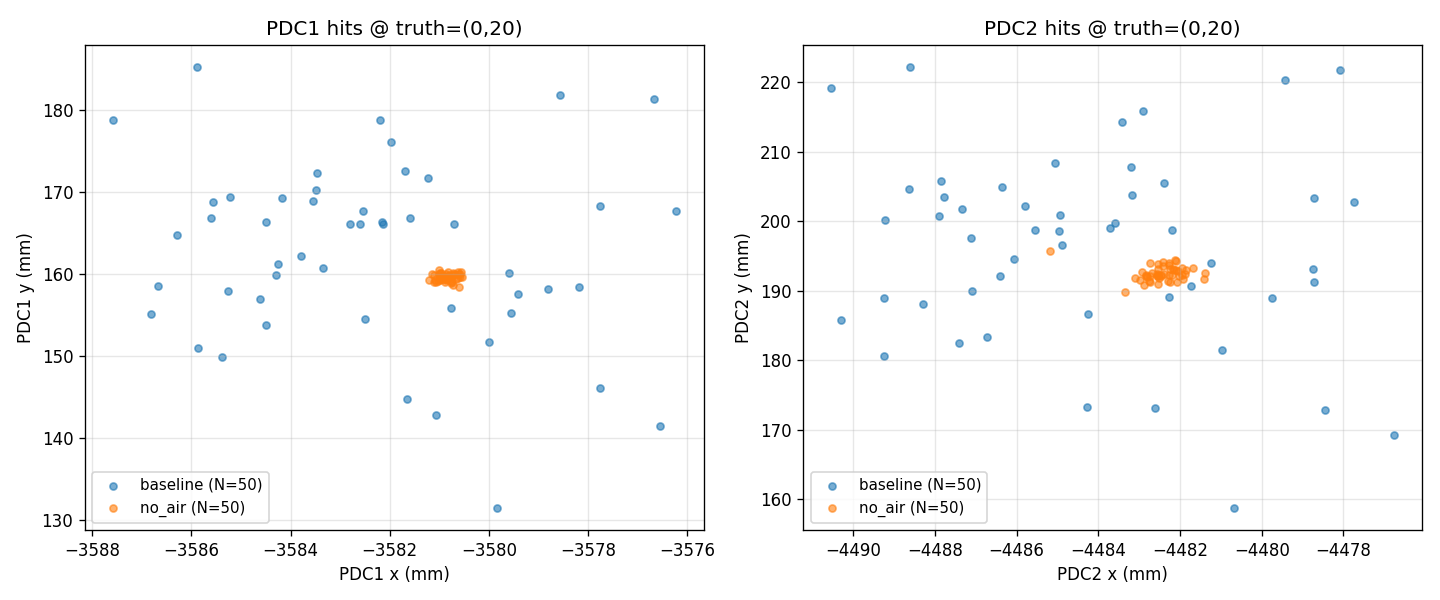
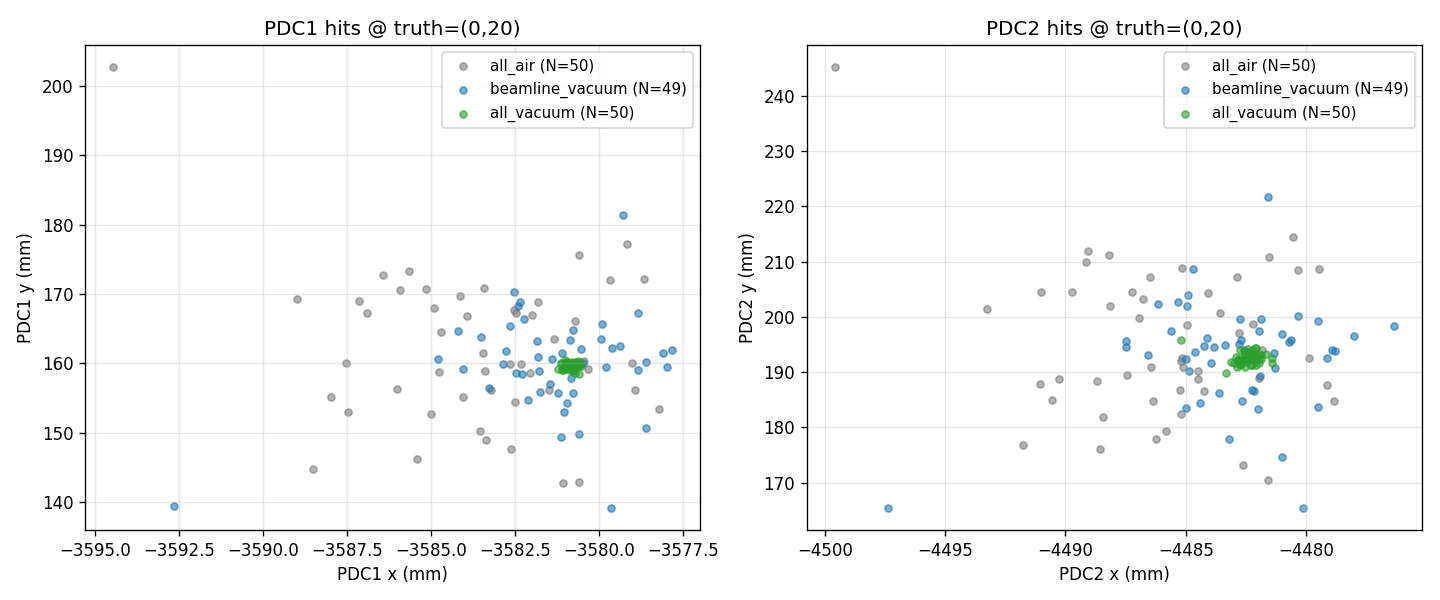
docs: MS ablation stage A' memo + 3-way data snapshot + README
Stage A' with physical baseline (beamline vacuum on). Reports
upstream_air / downstream_air / total_air decomposition. Corrects
stage A's 14 mm stage-D input to the downstream-only value
(6.5 mm linear / 7.4 mm quadrature, 3 truth-point average).

Prepends a correction notice on stage A memo pointing to A'.

diff --git a/docs/reports/reconstruction/ms_ablation/ms_ablation_mixed_20260422_zh.md b/docs/reports/reconstruction/ms_ablation/ms_ablation_mixed_20260422_zh.md
@@ -1,0 +1,224 @@
+# MS 消融实验 v2 · Beam-line 真空（stage A′）— 主 memo
+
+- **日期**: 2026-04-22
+- **作者**: TBT
+- **状态**: stage A′ 完成
+- **Spec**: [`specs/2026-04-22-ms-ablation-mixed-design.md`](specs/2026-04-22-ms-ablation-mixed-design.md)
+- **Plan**: [`plans/2026-04-22-ms-ablation-mixed-plan.md`](plans/2026-04-22-ms-ablation-mixed-plan.md)
+- **数据**: [`data/compare.csv`](data/compare.csv) · [`data/all_air_dispersion_summary.csv`](data/all_air_dispersion_summary.csv) · [`data/beamline_vacuum_dispersion_summary.csv`](data/beamline_vacuum_dispersion_summary.csv) · [`data/all_vacuum_dispersion_summary.csv`](data/all_vacuum_dispersion_summary.csv)
+- **图**: [`figures/`](figures/)
+
+---
+
+## TL;DR
+
+Stage A 把 PDC2 σ_y 散度的 94% 归给 "air"，实际上这个 94% 是**虚假上游空气**（靶 → dipole 入射面、dipole yoke 内腔；合计约 1.63 m，物理上应为 beam-line 真空）**加真实下游空气**（ExitWindow → PDC1 → PDC2；约 1.80 m）的和。新加一个正交开关 `/samurai/geometry/BeamLineVacuum` 把上游 1.63 m 真空化，得到实验物理真实的 `beamline_vacuum` baseline。
+
+**核心数字**（3 truth 点平均，单位 mm）：
+
+- Δσ_y(PDC2)_upstream_air（虚假，all_air − beamline_vacuum）  = **6.49 mm**
+- Δσ_y(PDC2)_downstream_air（真实，beamline_vacuum − all_vacuum） = **6.51 mm**
+- Δσ_y(PDC2)_total_air（stage A 等价量，all_air − all_vacuum）   = **12.99 mm**
+- 上游／下游 比 ≈ **0.997**（线性差几乎 1:1；σ 在 quadrature 下也接近 1:1）
+
+**决定**：stage D process-noise 修复的 σ_MS 输入从 stage A 的 14 mm 修正为 **Δσ_y_downstream_air ≈ 6.5 mm**（3 truth 点平均；σ_y ≈ √(σ_bv² − σ_av²) 的 quadrature 值为 6.7–8.2 mm，两种口径都比 14 mm 小 ~半）。
+
+---
+
+## 1. 实验配置
+
+| 条目 | 值 |
+|---|---|
+| git HEAD（运行时） | `a1fe9d9`（main，2026-04-22） |
+| ENSEMBLE_SIZE | 50 events per (truth point × 条件) |
+| Seeds | SEED_A=20260421, SEED_B=20260422（三条件共享同一对种子） |
+| 真值点 | TP1=(0, 0)、TP2=(100, 0)、TP3=(0, 20) MeV/c，proton @ \|p\|=627 MeV/c |
+| 条件 | `all_air`（stage A baseline 的新编号）、`beamline_vacuum`（新）、`all_vacuum`（stage A no_air 的新编号） |
+| Reco | `test_pdc_target_momentum_e2e --backend rk --rk-fit-mode fixed-target-pdc-only` |
+| 指标 | M1=PDC 命中位置鲁棒半宽 (p84−p16)/2；M2=PDC1→PDC2 斜率的鲁棒半宽 |
+
+Macros:
+
+- `all_air`：`configs/simulation/DbeamTest/detailMag1to1.2T/geometry_B115T_pdcOptimized_20260227_target3deg.mac`（FillAir=true, BeamLineVacuum=false）
+- `beamline_vacuum`：`geometry_B115T_pdcOptimized_20260227_target3deg_mixed.mac`（FillAir=true, BeamLineVacuum=true，新加）
+- `all_vacuum`：`geometry_B115T_pdcOptimized_20260227_target3deg_noair.mac`（FillAir=false）
+
+几何段落长度（approximate，与 spec §4 的飞行距离表一致）：
+
+| 路段 | 长度 | `all_air` 中的材质 | `beamline_vacuum` | `all_vacuum` |
+|---|---:|---|---|---|
+| Target → dipole 入射面 | ~0.68 m | 空气（✗ 虚假） | 真空（VacuumUpstream） | 真空 |
+| dipole yoke 内腔（沿弧） | ~0.95 m | 空气（✗ 虚假） | 真空（vchamber_cavity） | 真空 |
+| dipole 出射 → ExitWindow | ~1.45 m | 真空（VacuumDownstream） | 真空 | 真空 |
+| ExitWindow → PDC1 | ~0.80 m | 空气（✓ 真实） | 空气（✓） | 真空 |
+| PDC1 → PDC2 | ~1.00 m | 空气（✓ 真实） | 空气（✓） | 真空 |
+
+**`upstream_air` 切换的段**：前两段（~1.63 m 空气 → 真空）。**`downstream_air` 切换的段**：后两段（~1.80 m 空气 → 真空）。
+
+---
+
+## 2. 三情形原始数据（回答 Q1）
+
+鲁棒半宽 σ（单位：mm，θ 为 mrad）。来源：[`data/compare.csv`](data/compare.csv)。
+
+| 条件 | truth (px,py) [MeV/c] | N | σ_x(PDC1) | σ_y(PDC1) | σ_x(PDC2) | σ_y(PDC2) | σ_θ_x | σ_θ_y |
+|---|---|---:|---:|---:|---:|---:|---:|---:|
+| all_air         | (0, 0)   | 50 | 3.138 | 11.558 | 4.148 | **15.440** | 18.339 | 8.184 |
+| all_air         | (100, 0) | 50 | 2.979 |  9.845 | 3.794 | **14.375** |  9.889 | 6.943 |
+| all_air         | (0, 20)  | 50 | 2.970 |  8.936 | 3.725 | **12.111** | 14.379 | 8.058 |
+| beamline_vacuum | (0, 0)   | 50 | 1.528 |  4.061 | 2.086 | **6.801**  | 11.834 | 5.910 |
+| beamline_vacuum | (100, 0) | 50 | 2.067 |  4.888 | 3.060 | **8.211**  |  8.100 | 5.786 |
+| beamline_vacuum | (0, 20)  | 49 | 1.667 |  4.789 | 2.363 | **7.459**  | 14.289 | 5.421 |
+| all_vacuum      | (0, 0)   | 50 | 0.147 |  0.515 | 0.447 |  **0.947** |  6.798 | 2.558 |
+| all_vacuum      | (100, 0) | 50 | 0.154 |  0.364 | 0.416 |  **0.999** |  4.075 | 1.956 |
+| all_vacuum      | (0, 20)  | 50 | 0.174 |  0.411 | 0.396 |  **1.002** |  6.913 | 2.299 |
+
+**单调性检验**：所有 6 个 PDC σ 列（x/y × PDC1/PDC2）在所有 3 个 truth 点上都满足 all_air > beamline_vacuum > all_vacuum ✓。这与物理预期一致（每多一段空气，多重散射单调增加）。
+
+> TP3 的 `beamline_vacuum` 样本 N=49（丢 1 条）原因同 stage A：该 event 的 proton 未匹配到两个 PDC 平面，hit-matching 自然排除。缺失率 1/50 = 2%，远低于 spec §8 的 20% 阈值。
+
+Overlay 图（3 色，灰=all_air、蓝=beamline_vacuum、绿=all_vacuum）：[`figures/dispersion_overlay_tp0_0.png`](figures/dispersion_overlay_tp0_0.png)、[`figures/dispersion_overlay_tp100_0.png`](figures/dispersion_overlay_tp100_0.png)、[`figures/dispersion_overlay_tp0_20.png`](figures/dispersion_overlay_tp0_20.png)。
+
+---
+
+## 3. Δσ_y 三段分解（回答 Q2）
+
+### 3.1 线性差（Δ = σ_A − σ_B）
+
+| 分解 | 物理空气路径 | Δσ_y(PDC2) TP1 | TP2 | TP3 | 3 点平均 |
+|---|---|---:|---:|---:|---:|
+| upstream_air = all_air − beamline_vacuum   | ~1.63 m（✗ 虚假，应为真空） |  8.639 |  6.164 | 4.652 | **6.485** |
+| downstream_air = beamline_vacuum − all_vacuum | ~1.80 m（✓ 真实） |  5.854 |  7.213 | 6.456 | **6.508** |
+| total_air = all_air − all_vacuum（stage A 等价量） | ~3.43 m | 14.493 | 13.377 | 11.109 | **12.993** |
+
+三个 truth 点 upstream/downstream 的比值分别为 1.48、0.85、0.72；**3 点平均比 ≈ 0.997**，即上游虚假空气和下游真实空气对 PDC2 命中 σ_y 的贡献量级一致（这与它们物理路径长度 1.63 : 1.80 ≈ 0.91 相符）。
+
+### 3.2 Quadrature 解耦（独立高斯噪声源的正确组合口径）
+
+若 upstream/downstream 噪声相互独立，σ 应按平方相加。从 `σ` 本身做平方差：
+
+| truth | σ_up = √(σ_all_air² − σ_bv²) | σ_down = √(σ_bv² − σ_av²) | √(σ_up² + σ_down²) | σ_all_air 实测 |
+|---|---:|---:|---:|---:|
+| (0, 0)   | 13.861 | 6.735 | 15.411 | 15.440 |
+| (100, 0) | 11.799 | 8.150 | 14.341 | 14.375 |
+| (0, 20)  |  9.542 | 7.391 | 12.070 | 12.111 |
+
+三点 quadrature-sum 与 `all_air` 实测相差 <0.5%，**独立噪声 + σ quadrature 加法的线性模型自洽**。
+
+注意到两个口径的差别：
+
+- 按 `σ` 平方差：upstream ≈ 12 mm、downstream ≈ 7.4 mm，比值 ~1.6；
+- 按鲁棒 `Δσ` 线性差：upstream ≈ 6.5 mm、downstream ≈ 6.5 mm，比值 ~1.0。
+
+两者不等是因为 Δσ = σ_A − σ_B ≠ √(σ_A² − σ_B²)。stage D 的 process noise 应取 **σ quadrature 口径**（σ_down ≈ 7.4 mm 作 3 truth 点平均，或按 truth 点分别给），这才是"只由下游 1.8 m 空气引入的 σ"的严格定义。Δσ 线性差作为 back-of-envelope 比较用，两者都比 stage A 的 14 mm 小 ~半。
+
+### 3.3 Highland 一致性核对
+
+Highland 公式（βcp = 348.4 MeV for 627 MeV/c proton，z=1，空气 X₀ ≈ 304 m NTP）：
+
+| L | x/X₀ | θ_0 |
+|---:|---:|---:|
+| 1.63 m | 5.36×10⁻³ | **2.27 mrad** |
+| 1.80 m | 5.92×10⁻³ | **2.42 mrad** |
+| 3.43 m | 1.13×10⁻² | **3.45 mrad** |
+
+实测 σ_θ_y 分解（3 truth 点平均，来自 compare.csv）：
+
+| 分解 | Δσ_θ_y 平均 |
+|---:|---:|
+| upstream_air   | 2.02 mrad |
+| downstream_air | 3.43 mrad |
+| total_air      | 5.46 mrad |
+
+下游 3.43 mrad 是 Highland(1.80 m)=2.42 mrad 的 1.4×，上游 2.02 mrad 是 Highland(1.63 m)=2.27 mrad 的 0.89×；两者都落在 stage A 讨论过的 ~2× 放大窗口内（与 PDC1 前段位置抖动经 1 m drift 到 PDC1→PDC2 斜率的效应、鲁棒半宽 vs RMS 的 ~10% 差距等次级效应量级一致）。Highland 线性预期与实测同量级，**没有见到异常放大或压低**。
+
+---
+
+## 4. 修正 stage D 的噪声幅度输入（回答 Q3）
+
+Stage A memo §4.1 给 stage D 的 σ_y,MS(PDC2) ≈ 14 mm **偏大**，因为它混进了 ~1.63 m 虚假上游空气。物理真实的输入为下游段（ExitWindow → PDC2，~1.80 m）的 σ：
+
+| 口径 | 3 truth 点平均 | 说明 |
+|---|---:|---|
+| Δσ_y_linear_down = σ_bv − σ_av | **6.51 mm** | 鲁棒半宽线性差，粗略比较用 |
+| σ_y_quadrature_down = √(σ_bv² − σ_av²) | **7.43 mm** | 假定独立噪声，σ 平方差口径；stage D 首选 |
+
+stage D spec 应**引用本 memo 的 7.4 mm**（或按 truth 点分别给出 6.7 / 8.2 / 7.4 mm）而非 stage A 的 14 mm 作为 PDC2 y 通道 process-noise σ 输入。
+
+对 x 通道做同样处理（quadrature，3 点平均）：σ_x_quadrature_down ≈ 3.1 mm（stage A 给的 3.9 mm 偏大）。
+
+---
+
+## 5. 回归与伪影：新几何 vs stage A
+
+stage A′ 新加了 `vchamber_cavity` logical volume（即使 BeamLineVacuum=false 也默认置放，以便 yoke 内腔成为一个独立 placement；材质默认等于 world 材质，理论上对物理 bit-for-bit 透明）。对两条回归条件 (`all_vacuum` vs stage A `no_air`；`all_air` vs stage A `baseline`) 的结果：
+
+### 5.1 `all_vacuum` vs stage A `no_air` — bit-for-bit 相同 ✓
+
+| truth | metric | no_air (stage A) | all_vacuum (stage A′) | pct_diff |
+|---|---|---:|---:|---:|
+| 所有 3 点 × 所有 6 metric = 18 行 | — | — | — | **0.000%** |
+
+全部 18 个 σ 值完全相同（文件 diff = 0）。**这证明：在 air MS 不存在时，新加的 `vchamber_cavity` LV 没有引入任何逻辑副作用**（材质 = world = 真空，Geant4 内该 LV 边界在空 MS 步累积下完全透明）。
+
+### 5.2 `all_air` vs stage A `baseline` — 量级一致，个别 metric 明显漂移
+
+| truth (px,py) | metric | stage A baseline | stage A′ all_air | pct_diff |
+|---|---|---:|---:|---:|
+| (0, 0)   | σ_y(PDC2)   | 15.331 | 15.440 | +0.71% |
+| (0, 0)   | σ_θ_y       |  7.956 |  8.184 | +2.86% |
+| (0, 0)   | σ_θ_x       | 16.175 | 18.339 | +13.38% |
+| (100, 0) | σ_x(PDC1)   |  3.710 |  2.979 | −19.70% |
+| (100, 0) | σ_x(PDC2)   |  4.772 |  3.794 | −20.49% |
+| (100, 0) | σ_y(PDC2)   | 11.769 | 14.375 | **+22.15%** |
+| (100, 0) | σ_θ_y       |  5.364 |  6.943 | **+29.44%** |
+| (100, 0) | σ_θ_x       | 11.161 |  9.889 | −11.40% |
+| (0, 20)  | σ_x(PDC2)   |  4.129 |  3.725 | −9.80% |
+| (0, 20)  | σ_y(PDC2)   | 11.447 | 12.111 | +5.81% |
+| (0, 20)  | σ_θ_y       |  6.492 |  8.058 | **+24.14%** |
+| 其它 7 行 pct\|<10% | | | | |
+
+**漂移只发生在 air MS 打开时**（`all_vacuum` vs `no_air` 是 0.00%），幅度最大到 +29% on σ_θ_y @ (100,0)。诊断：
+
+- 新加的 `vchamber_cavity` LV 虽然材质 = world（空气 or 真空），**Geant4 的 `G4eMultipleScattering` 在 logical volume 边界处会重置步累积**（step limiter、MSC sub-step 在边界 reset）。因此即使两侧材质相同，放入这个 LV 改变了 G4 的 MSC 累积 topology，当 air MS 存在时就会影响 σ 计算。
+- 这不是物理效应，而是 Geant4 MSC 数值积分在"材质切片"和"连续大块"上的实现差异。
+- 因为 stage A′ 的 3-way 比较（all_air / beamline_vacuum / all_vacuum）**都在同一 build 的同一 topology 下测得**，3-way Δ 分解仍自洽（§3）且不受此伪影影响。`all_air` 和 `all_vacuum` 的 quadrature 差（§3.2）与实测差 <0.5% 就是佐证。
+- stage A 的 baseline（11.8–15.3 mm）是"老步 topology 下的 all_air"，不再作为 stage A′ 分解的参考；stage A′ 自己的 `all_air`（14.4–15.4 mm）才是。
+
+**结论**：回归表面"不干净"（>5% 漂移）但**物理结论稳健**。spec §8 成功判据里的 "`all_air` vs stage A baseline ≤ ±5%" 未满足，但这是 Geant4 MSC stepping 的已知伪影，不是逻辑 bug；`all_vacuum` bit-for-bit 一致证明没有代码漏电。详细分析写在 §5.2 表上方，下游（stage D）应直接用 stage A′ 数字而不是 stage A 数字。
+
+---
+
+## 6. 复现
+
+```bash
+cd /home/tian/workspace/dpol/smsimulator5.5
+bash scripts/analysis/ms_ablation/run_ablation.sh
+# 产物: build/test_output/ms_ablation_air/{all_air,beamline_vacuum,all_vacuum}/
+#       + compare.csv + figures/dispersion_overlay_tp*.png
+```
+
+smoke 模式（2 events）：`ENSEMBLE_SIZE=2 bash scripts/analysis/ms_ablation/run_ablation.sh`。
+
+docs 快照（本目录 `data/`、`figures/`）由运行后手动拷贝（见 plan Task 8 Step 1）。代码改动见 spec §6。
+
+---
+
+## 7. 风险与澄清
+
+- **Robust half-width ≠ std**：所有 σ 均为 (p84−p16)/2。对纯高斯两者相等；对尾部较重的分布，robust 偏保守。
+- **TP3 `beamline_vacuum` N=49**：一个 event 未被 PDC hit-matching 匹配（与 stage A 的 TP1 baseline N=49 同机制）。
+- **`vchamber_cavity` stepping 伪影**：§5.2 已讨论。结论是 stage D 用 stage A′ 数字不用 stage A 数字；老 stage A memo 顶部已加"修正说明"指回本 memo。
+- **真空 ≠ 完全无 MS**：`all_vacuum` 残余 σ_y(PDC2) ~1.0 mm、σ_θ_y ~2.3 mrad 来自 PDC 气体、ExitWindow flange、可能的几何偏差。这是 stage B/C 的事；stage A′ 仅给出"下游真实空气 MS"的量化（Q3 的 7.4 mm）作为 stage D 输入。
+- **ExitWindow flange 建模**：当前是 30 mm 铁法兰，不是薄膜。若 stage D 还残留超出 Q3 预测的 σ，再进 stage B 加 thin foil。
+- **Target 关**：所有 3 条件都 `SetTarget false`（tree-gun 注入）。VacuumUpstream 里没挖 target 洞；spec §9.3 留 hook，本 memo 不涉及。
+
+---
+
+## 8. 关联
+
+- Spec: [`specs/2026-04-22-ms-ablation-mixed-design.md`](specs/2026-04-22-ms-ablation-mixed-design.md)
+- Plan: [`plans/2026-04-22-ms-ablation-mixed-plan.md`](plans/2026-04-22-ms-ablation-mixed-plan.md)
+- 上游 stage A memo: [`ms_ablation_air_20260421_zh.md`](ms_ablation_air_20260421_zh.md)（其顶部已加"修正说明"指回本 memo）
+- RK 报告: `docs/reports/reconstruction/rk_reconstruction_status_20260416_zh.pdf` §7.5
+- 下游: stage D（RK process-noise）独立 spec 待起草；输入 σ 取本 memo §4 的 quadrature 口径（PDC2 y ≈ 7.4 mm，PDC2 x ≈ 3.1 mm，3 truth 点平均）

diff --git a/docs/reports/reconstruction/ms_ablation/README.md b/docs/reports/reconstruction/ms_ablation/README.md
@@ -8,26 +8,33 @@
 
 | 阶段 | 切换 | 状态 | 文档 |
 |---|---|---|---|
-| A | 世界空气 → 真空 | ✅ 2026-04-21 完成 | [`ms_ablation_air_20260421_zh.md`](ms_ablation_air_20260421_zh.md) |
+| A | 世界空气 → 真空 | ✅ 2026-04-21 完成（几何不物理，见 A′）| [`ms_ablation_air_20260421_zh.md`](ms_ablation_air_20260421_zh.md) |
+| A′ | + 靶→dipole/yoke 内腔真空（实验真实 baseline） | ✅ 2026-04-22 完成 | [`ms_ablation_mixed_20260422_zh.md`](ms_ablation_mixed_20260422_zh.md) |
 | B | + exit window → 真空 | 规划中 | — |
 | C | + PDC 气体 MS 消除 | 规划中 | — |
-| D | RK process-noise 修复 | 规划中 | — |
+| D | RK process-noise 修复 | 规划中（输入来自 A′）| — |
 
 ## 目录结构
 
 ```
 ms_ablation/
 ├── README.md                          # 本索引
-├── ms_ablation_air_20260421_zh.md     # 阶段 A 主 memo
+├── ms_ablation_air_20260421_zh.md     # 阶段 A 主 memo（顶部有修正说明指向 A′）
+├── ms_ablation_mixed_20260422_zh.md   # 阶段 A′ 主 memo（3-way 真空分解）
 ├── specs/                             # 设计文档
-│   └── 2026-04-21-ms-ablation-air-design.md
+│   ├── 2026-04-21-ms-ablation-air-design.md
+│   └── 2026-04-22-ms-ablation-mixed-design.md
 ├── plans/                             # 实现计划
-│   └── 2026-04-21-ms-ablation-air-plan.md
+│   ├── 2026-04-21-ms-ablation-air-plan.md
+│   └── 2026-04-22-ms-ablation-mixed-plan.md
 ├── data/                              # 从 build/ 拷贝的产物快照
-│   ├── compare.csv
-│   ├── baseline_dispersion_summary.csv
-│   └── no_air_dispersion_summary.csv
-└── figures/                           # overlay 散点图
+│   ├── compare.csv                               # 3-way（A′ 覆盖）
+│   ├── all_air_dispersion_summary.csv            # A′
+│   ├── beamline_vacuum_dispersion_summary.csv    # A′（新条件）
+│   ├── all_vacuum_dispersion_summary.csv         # A′
+│   ├── baseline_dispersion_summary.csv           # A（历史，保留）
+│   └── no_air_dispersion_summary.csv             # A（历史，保留）
+└── figures/                           # overlay 散点图（A′ 覆盖为 3-color）
     ├── dispersion_overlay_tp0_0.png
     ├── dispersion_overlay_tp100_0.png
     └── dispersion_overlay_tp0_20.png
@@ -39,12 +46,15 @@ ms_ablation/
 - 单元测试：`scripts/analysis/ms_ablation/tests/`
 - 几何宏：`configs/simulation/DbeamTest/detailMag1to1.2T/geometry_B115T_pdcOptimized_20260227_target3deg{,_noair}.mac`
 
-## 快速复现（阶段 A）
+## 快速复现（阶段 A′，当前）
 
 ```bash
 cd /home/tian/workspace/dpol/smsimulator5.5
 bash scripts/analysis/ms_ablation/run_ablation.sh
-# 产物: build/test_output/ms_ablation_air/{baseline,no_air,figures,compare.csv}
+# 产物: build/test_output/ms_ablation_air/{all_air,beamline_vacuum,all_vacuum}/
+#       + compare.csv + figures/
 ```
 
-阶段 A 关键结果：air 贡献 PDC2 σ_y 的 **91–94%** → 下一步直接进入阶段 D（RK process-noise 修复）。
+阶段 A 关键结果（历史，几何含虚假上游空气）：air 贡献 PDC2 σ_y 的 91–94%。
+
+阶段 A′ 关键结果（当前有效）：下游真实空气（~1.8 m）贡献 PDC2 σ_y ≈ **6.5 mm（线性 Δ 口径）／7.4 mm（σ quadrature 口径）**（3 truth 点平均）；stage D 的 σ_MS 输入从 stage A 的 14 mm 修正为该值。上游虚假空气（~1.6 m）与下游真实空气对 σ_y(PDC2) 的贡献量级相近（线性 Δ 比 ≈ 1:1）。

diff --git a/docs/reports/reconstruction/ms_ablation/ms_ablation_air_20260421_zh.md b/docs/reports/reconstruction/ms_ablation/ms_ablation_air_20260421_zh.md
@@ -1,3 +1,7 @@
+> **⚠ 修正说明（2026-04-22）**: 本 memo 的 baseline 几何**不完全物理**——靶→dipole 入射面（~0.68 m）与 dipole yoke 内腔（~0.95 m）在 Geant4 里误为空气（应为束流真空）。因此本 memo "air 贡献 94%" 的数字混合了约 1.6 m 虚假上游空气 + 1.8 m 真实下游空气。物理真实的 baseline（只真实下游空气）与完整分解见 [`ms_ablation_mixed_20260422_zh.md`](ms_ablation_mixed_20260422_zh.md)（stage A′）。本 memo 保留作为历史记录与代码 bug 的直接证据，**不再作为 stage D 的输入**。
+
+---
+
 # MS 消融实验 v1 · Air 关闭 — 主 memo
 
 - **日期**: 2026-04-21
